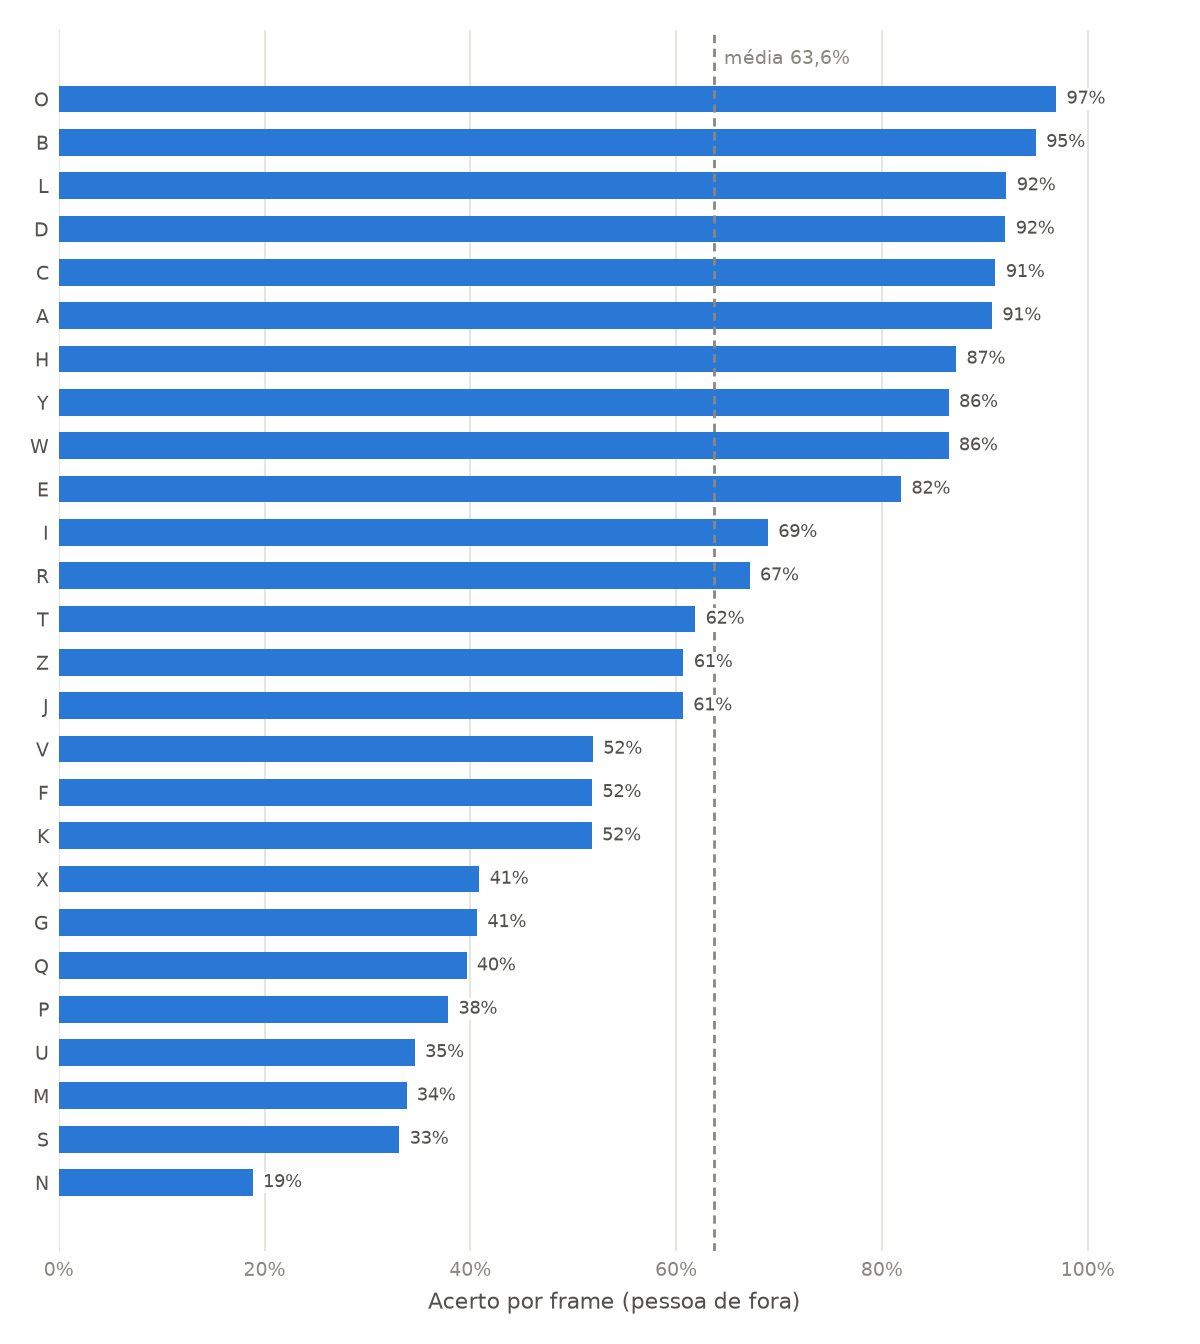
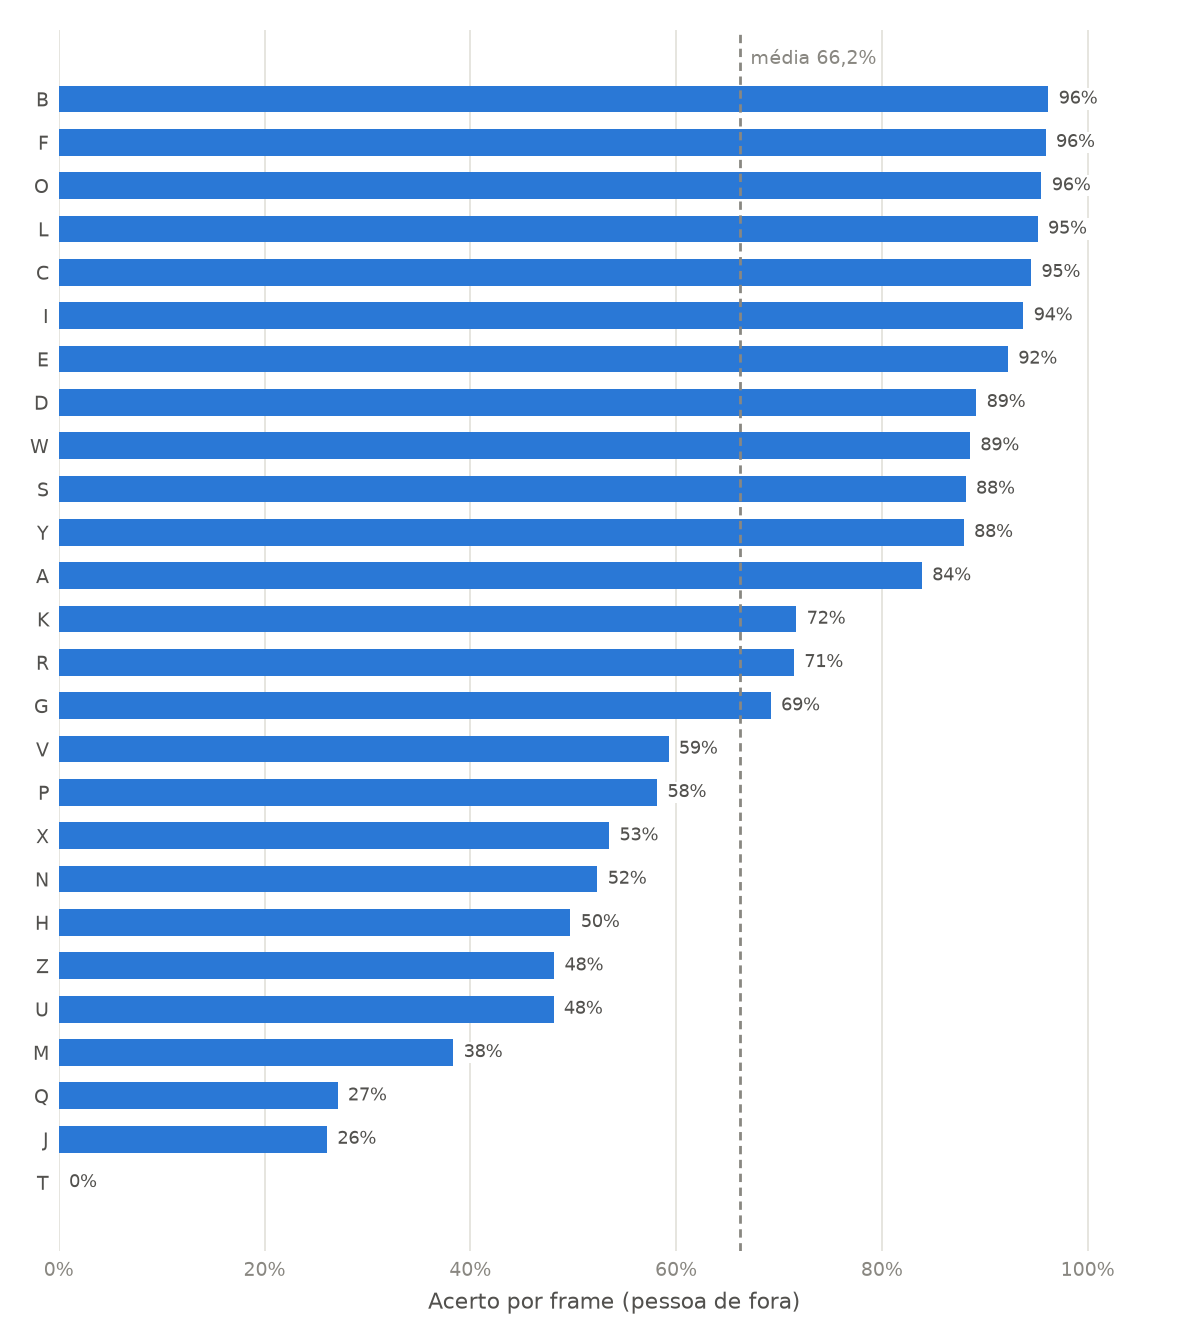
feat: troca o classificador para SVM

Changed region(s): [[0.2775, 0.0625, 0.925, 0.875], [0.0308, 0.8438, 0.2467, 0.9062], [0.5858, 0.0312, 0.7092, 0.0625]]

diff --git a/treinar_classificador.py b/treinar_classificador.py
@@ -1,5 +1,5 @@
 """
-Treina e avalia o classificador de letras do alfabeto manual (Random Forest).
+Treina e avalia o classificador de letras do alfabeto manual (SVM; Random Forest como alternativa).
 
 Uso (de dentro da pasta do projeto):
   .venv\\Scripts\\python treinar_classificador.py
@@ -12,7 +12,8 @@ Etapas:
   4. Salva em resultados/ o relatório, as tabelas (CSV) e as figuras (PNG) da avaliação.
 
 Por que não sortear frames para teste? Os 90 frames de uma tomada são quase iguais entre si.
-Sorteando, o teste vira cópia do treino e o acerto fica perto de 99%, mas é ilusório.
+Sorteando, o teste vira cópia do treino e o acerto sobe muito (99% com o Random Forest,
+84% com a SVM), mas é ilusório.
 Esse número aparece no relatório só para comparação.
 """
 
@@ -20,6 +21,7 @@ import datetime
 import glob
 import os
 import re
+import time
 
 import joblib
 import matplotlib
@@ -29,9 +31,13 @@ import numpy as np
 import pandas as pd
 import sklearn
 from matplotlib.colors import LinearSegmentedColormap
+from sklearn.calibration import CalibratedClassifierCV
 from sklearn.ensemble import RandomForestClassifier
 from sklearn.metrics import f1_score
 from sklearn.model_selection import train_test_split
+from sklearn.pipeline import Pipeline, make_pipeline
+from sklearn.preprocessing import StandardScaler
+from sklearn.svm import SVC
 from sklearn.utils.class_weight import compute_sample_weight
 
 import caracteristicas_mao
@@ -53,7 +59,12 @@ DATASETS = {
 # mesma forma de mão), então o padrão é treinar só as letras.
 CLASSES = "letras"
 
-N_ARVORES = 300
+# Modelo do sistema: "svm" (adotado depois de comparar_modelos.py) ou "random_forest"
+MODELO = "svm"
+# SVM com kernel RBF: mediana dos valores escolhidos nas 3 rodadas de comparar_modelos.py
+SVM_C = 0.3
+SVM_GAMMA = 0.003
+N_ARVORES = 300     # Random Forest
 SEMENTE = 42
 PASTA_MODELOS = os.path.join(SCRIPT_DIR, "modelos")
 PASTA_RESULTADOS = os.path.join(SCRIPT_DIR, "resultados")
@@ -148,13 +159,44 @@ def preparar(dados):
     return X, y
 
 
+def criar_modelo():
+    if MODELO == "svm":
+        # Características padronizadas (o kernel RBF depende da escala) e probabilidades
+        # calibradas, porque o filtro usa a confiança da letra. (O SVC(probability=True)
+        # foi descontinuado no scikit-learn 1.9.)
+        return make_pipeline(StandardScaler(), CalibratedClassifierCV(
+            SVC(kernel="rbf", C=SVM_C, gamma=SVM_GAMMA), ensemble=False))
+    return RandomForestClassifier(n_estimators=N_ARVORES, n_jobs=-1, random_state=SEMENTE)
+
+
+def descricao_modelo():
+    if MODELO == "svm":
+        return f"SVM com kernel RBF (C = {num(SVM_C, 1)}, gamma = {num(SVM_GAMMA, 3)}), probabilidades calibradas"
+    return f"Random Forest com {N_ARVORES} árvores (semente {SEMENTE})"
+
+
 def treinar(X, y):
     # Pesos por amostra compensam classes com mais tomadas que outras.
     # (O class_weight="balanced" do scikit-learn 1.9.1 quebra com labels como '1', '2';
     #  por isso os pesos vão no fit.)
-    modelo = RandomForestClassifier(n_estimators=N_ARVORES, n_jobs=-1, random_state=SEMENTE)
-    modelo.fit(X, y, sample_weight=compute_sample_weight("balanced", y))
+    pesos = compute_sample_weight("balanced", y)
+    modelo = criar_modelo()
+    if isinstance(modelo, Pipeline):
+        modelo.fit(X, y, **{f"{modelo.steps[-1][0]}__sample_weight": pesos})
+    else:
+        modelo.fit(X, y, sample_weight=pesos)
     return modelo
+
+
+def latencia_por_quadro_ms(modelo, X, repeticoes=200):
+    """Tempo para classificar UM quadro com probabilidades, como no tempo real (em ms)."""
+    if hasattr(modelo, "n_jobs"):
+        modelo.n_jobs = 1
+    modelo.predict_proba(X[:1])
+    inicio = time.perf_counter()
+    for i in range(repeticoes):
+        modelo.predict_proba(X[i % len(X):i % len(X) + 1])
+    return (time.perf_counter() - inicio) / repeticoes * 1000
 
 
 # =====================================================================
@@ -295,7 +337,8 @@ def desenhar_acerto_por_classe(por_classe, media, caminho):
     plt.close(fig)
 
 
-def salvar_resultados(pasta, info_datasets, resumo, previsoes, fora_da_conta, acerto_aleatorio, caminho_modelo):
+def salvar_resultados(pasta, info_datasets, resumo, previsoes, fora_da_conta, acerto_aleatorio, caminho_modelo,
+                      ms_por_quadro):
     """Grava em 'pasta' as tabelas CSV, as figuras PNG e o relatorio.md. Retorna os caminhos."""
     os.makedirs(pasta, exist_ok=True)
     caminhos = {nome: os.path.join(pasta, nome) for nome in (
@@ -317,8 +360,7 @@ def salvar_resultados(pasta, info_datasets, resumo, previsoes, fora_da_conta, ac
         "# Resultados do classificador de letras",
         "",
         f"Gerado por `treinar_classificador.py` em {datetime.datetime.now():%d/%m/%Y %H:%M}. "
-        f"Random Forest com {N_ARVORES} árvores (semente {SEMENTE}), scikit-learn {sklearn.__version__}, "
-        f"classes: {CLASSES} ({len(por_classe)}).",
+        f"Modelo: {descricao_modelo()}; scikit-learn {sklearn.__version__}; classes: {CLASSES} ({len(por_classe)}).",
         "",
         "## Dados",
         "",
@@ -362,7 +404,8 @@ def salvar_resultados(pasta, info_datasets, resumo, previsoes, fora_da_conta, ac
         "## Modelo final",
         "",
         f"Treinado com todos os {int(resumo.loc['Média', 'frames'])} frames das {len(info_datasets)} pessoas "
-        f"e salvo em `{os.path.relpath(caminho_modelo, SCRIPT_DIR).replace(os.sep, '/')}`.",
+        f"e salvo em `{os.path.relpath(caminho_modelo, SCRIPT_DIR).replace(os.sep, '/')}`. "
+        f"Tempo para classificar um quadro: {num(ms_por_quadro, 2)} ms.",
         "",
     ]
     with open(caminhos["relatorio.md"], "w", encoding="utf-8") as arquivo:
@@ -396,7 +439,8 @@ def main():
     # Modelo final: todas as pessoas no treino (mais gente = melhor para pessoas novas)
     modelo = treinar(*preparar(todos))
     os.makedirs(PASTA_MODELOS, exist_ok=True)
-    caminho_modelo = os.path.join(PASTA_MODELOS, f"random_forest_{CLASSES}.joblib")
+    caminho_modelo = os.path.join(PASTA_MODELOS, f"classificador_{CLASSES}.joblib")
+    ms_por_quadro = latencia_por_quadro_ms(modelo, preparar(todos)[0])
     joblib.dump({
         "modelo": modelo,
         "classes": [str(c) for c in modelo.classes_],
@@ -405,11 +449,14 @@ def main():
         "datasets": {nome: len(d) for nome, d in datasets.items()},
         "avaliacao_pessoa_de_fora": resumo.to_dict(orient="index"),
         "versao_sklearn": sklearn.__version__,
+        "tipo_modelo": MODELO,
+        "descricao": descricao_modelo(),
     }, caminho_modelo)
 
     caminhos = salvar_resultados(PASTA_RESULTADOS, info_datasets, resumo, previsoes, fora_da_conta,
-                                 acerto_aleatorio, caminho_modelo)
-    print(f"\n[MODELO] {len(todos)} frames de {len(datasets)} pessoas -> {os.path.relpath(caminho_modelo, SCRIPT_DIR)}")
+                                 acerto_aleatorio, caminho_modelo, ms_por_quadro)
+    print(f"\n[MODELO] {descricao_modelo()} | {num(ms_por_quadro, 2)} ms por quadro")
+    print(f"[MODELO] {len(todos)} frames de {len(datasets)} pessoas -> {os.path.relpath(caminho_modelo, SCRIPT_DIR)}")
     print(f"[RESULTADOS] relatório, tabelas e figuras em {os.path.relpath(PASTA_RESULTADOS, SCRIPT_DIR)}"
           f"{os.sep} ({len(caminhos)} arquivos)")
 

diff --git a/classificador.py b/classificador.py
@@ -11,7 +11,7 @@ Este processo:
 1. recebe do emissor a janela deslizante de frames (``tcp://127.0.0.1:5555``, PULL);
 2. descarta janelas atrasadas e frames já classificados (as janelas se sobrepõem);
 3. extrai as 35 características invariantes de cada frame novo com mão
-   (``caracteristicas_mao.extrair``) e calcula ``predict_proba`` do Random Forest;
+   (``caracteristicas_mao.extrair``) e calcula ``predict_proba`` do modelo treinado (SVM);
 4. envia ao filtro (``tcp://127.0.0.1:5556``, PUSH) um dicionário JSON de
    probabilidades por classe, em porcentagem, com ``"-"`` como classe blank::
 
@@ -82,7 +82,7 @@ import caracteristicas_mao
 # CONFIGURAÇÕES
 # =====================================================================
 SCRIPT_DIR: Final[str] = os.path.dirname(os.path.abspath(__file__))
-CAMINHO_MODELO_PADRAO: Final[str] = os.path.join(SCRIPT_DIR, "modelos", "random_forest_letras.joblib")
+CAMINHO_MODELO_PADRAO: Final[str] = os.path.join(SCRIPT_DIR, "modelos", "classificador_letras.joblib")
 
 ENDERECO_ENTRADA_PADRAO: Final[str] = "tcp://127.0.0.1:5555"   # bind (PULL): o emissor conecta aqui
 ENDERECO_SAIDA_PADRAO: Final[str] = "tcp://127.0.0.1:5556"     # connect (PUSH): o filtro faz bind aqui
@@ -140,7 +140,7 @@ def calcular_sha256(caminho: str) -> str:
 
 
 class ModeloLibras:
-    """Encapsula o Random Forest e a extração de características de um lote de frames."""
+    """Encapsula o modelo treinado e a extração de características de um lote de frames."""
 
     def __init__(self, estimador: Any, classes: tuple[str, ...], proporcao_treino: float) -> None:
         """Cria o invólucro.
@@ -183,7 +183,7 @@ class ModeloLibras:
         if not validos.any():
             return vazio, validos
 
-        # float32 evita uma cópia: o scikit-learn converte as árvores para float32 de qualquer forma
+        # float32 evita uma cópia no Random Forest (as árvores usam float32); os outros modelos convertem sozinhos
         entrada = caracteristicas[validos].astype(np.float32, copy=False)
         probabilidades = np.asarray(self._estimador.predict_proba(entrada), dtype=np.float64)
         return probabilidades, validos
@@ -569,7 +569,7 @@ class Configuracao:
     """Parâmetros de execução.
 
     Attributes:
-        caminho_modelo: Arquivo ``.joblib`` do Random Forest.
+        caminho_modelo: Arquivo ``.joblib`` do modelo treinado.
         sha256_modelo: SHA-256 esperado do modelo (``None`` = não conferir).
         endereco_entrada: Endpoint do ``bind`` PULL (emissor).
         endereco_saida: Endpoint do ``connect`` PUSH (filtro).

diff --git a/testes/test_treinar_classificador.py b/testes/test_treinar_classificador.py
@@ -143,7 +143,7 @@ class TestResultados(unittest.TestCase):
                 "P2": {"tomadas": 1, "frames": 4, "frames_sem_mao": 2}}
         pasta = tempfile.mkdtemp()
         caminhos = t.salvar_resultados(pasta, info, resumo, previsoes, {"P1": [], "P2": []}, 0.99,
-                                       os.path.join(t.SCRIPT_DIR, "modelos", "m.joblib"))
+                                       os.path.join(t.SCRIPT_DIR, "modelos", "m.joblib"), 1.25)
         for caminho in caminhos.values():
             self.assertTrue(os.path.getsize(caminho) > 0, caminho)
         with open(caminhos["relatorio.md"], encoding="utf-8") as arquivo:
@@ -151,6 +151,7 @@ class TestResultados(unittest.TestCase):
         self.assertIn("| **Média** |", relatorio)
         self.assertIn("99,0%", relatorio)
         self.assertIn("modelos/m.joblib", relatorio)
+        self.assertIn("1,25 ms", relatorio)
         matriz = pd.read_csv(caminhos["matriz_confusao.csv"], index_col=0)
         np.testing.assert_allclose(matriz.sum(axis=1), 1.0)   # cada linha soma 100%
 

diff --git a/resultados/relatorio.md b/resultados/relatorio.md
@@ -1,6 +1,6 @@
 # Resultados do classificador de letras
 
-Gerado por `treinar_classificador.py` em 30/10/2026 16:44. Random Forest com 300 árvores (semente 42), scikit-learn 1.9.1, classes: letras (26).
+Gerado por `treinar_classificador.py` em 30/10/2026 18:06. Modelo: SVM com kernel RBF (C = 0,3, gamma = 0,003), probabilidades calibradas; scikit-learn 1.9.1; classes: letras (26).
 
 ## Dados
 
@@ -16,14 +16,14 @@ Para cada pessoa, o modelo é treinado com as outras e testado nela. O acerto po
 
 | Pessoa testada | Frames | Tomadas | Acerto por frame | F1 macro | Acerto por tomada |
 |---|---:|---:|---:|---:|---:|
-| Gabriel | 6716 | 75 | 63,1% | 0,58 | 70,7% |
-| Fernando | 3315 | 52 | 64,8% | 0,59 | 65,4% |
-| Giovanni | 4497 | 51 | 63,1% | 0,62 | 78,4% |
-| **Média** | 14528 | 178 | 63,6% | 0,60 | 71,5% |
+| Gabriel | 6716 | 75 | 66,1% | 0,64 | 72,0% |
+| Fernando | 3315 | 52 | 69,6% | 0,66 | 78,8% |
+| Giovanni | 4497 | 51 | 63,0% | 0,60 | 76,5% |
+| **Média** | 14528 | 178 | 66,2% | 0,63 | 75,8% |
 
 ## Acerto por letra
 
-Da pior para a melhor (todas as pessoas testadas juntas): N 19%, S 33%, M 34%, U 35%, P 38%, Q 40%, G 41%, X 41%, K 52%, F 52%, V 52%, J 61%, Z 61%, T 62%, R 67%, I 69%, E 82%, W 86%, Y 86%, H 87%, A 91%, C 91%, D 92%, L 92%, B 95%, O 97%.
+Da pior para a melhor (todas as pessoas testadas juntas): T 0%, J 26%, Q 27%, M 38%, U 48%, Z 48%, H 50%, N 52%, X 53%, P 58%, V 59%, G 69%, R 71%, K 72%, A 84%, Y 88%, S 88%, W 89%, D 89%, E 92%, I 94%, C 95%, L 95%, O 96%, F 96%, B 96%.
 
 Figuras: `acerto_por_classe.png` e `matriz_confusao.png`.
 
@@ -31,21 +31,21 @@ Figuras: `acerto_por_classe.png` e `matriz_confusao.png`.
 
 | Letra real | Prevista como | Frames |
 |---|---|---:|
-| K | H | 289 |
-| J | I | 276 |
-| U | R | 255 |
-| M | W | 249 |
-| G | Z | 222 |
-| T | F | 218 |
-| F | T | 214 |
-| S | I | 191 |
-| Q | Z | 178 |
-| V | H | 147 |
+| T | F | 583 |
+| J | I | 409 |
+| H | K | 245 |
+| Q | Z | 216 |
+| P | K | 194 |
+| U | R | 179 |
+| V | R | 171 |
+| M | N | 160 |
+| N | M | 151 |
+| Z | G | 130 |
 
 ## Comparação: frames sorteados (ilusório)
 
-Sorteando 25% dos frames para teste, o acerto é 98,9%. O número é ilusório: frames da mesma tomada caem no treino e no teste. Não usar como resultado.
+Sorteando 25% dos frames para teste, o acerto é 84,0%. O número é ilusório: frames da mesma tomada caem no treino e no teste. Não usar como resultado.
 
 ## Modelo final
 
-Treinado com todos os 14528 frames das 3 pessoas e salvo em `modelos/random_forest_letras.joblib`.
+Treinado com todos os 14528 frames das 3 pessoas e salvo em `modelos/classificador_letras.joblib`. Tempo para classificar um quadro: 7,06 ms.

diff --git a/README.md b/README.md
@@ -1,6 +1,6 @@
 # TCC
 
-Reconhecimento do alfabeto manual de Libras com landmarks da mão (MediaPipe) e Random Forest, em tempo real.
+Reconhecimento do alfabeto manual de Libras com landmarks da mão (MediaPipe) e SVM, em tempo real.
 
 ```
 emissor_janela_zmq_sem_tela ──5555──> classificador ──5556──> filtro ──5557──> exibidor_texto
@@ -10,7 +10,7 @@ emissor_janela_zmq_sem_tela ──5555──> classificador ──5556──> fi
 | Arquivo | O que faz |
 |---|---|
 | `emissor_janela_zmq_sem_tela.py` | Abre a câmera, extrai os 21 landmarks da mão e envia a janela deslizante de frames ao classificador e a imagem ao exibidor |
-| `classificador.py` | Calcula as características de cada frame novo e as probabilidades de cada letra (Random Forest) |
+| `classificador.py` | Calcula as características de cada frame novo e as probabilidades de cada letra (SVM) |
 | `filtro.py` | Escolhe a letra mais provável e só a repassa se a confiança passar do limiar |
 | `exibidor_texto.py` | Mostra a imagem da câmera e a letra reconhecida |
 | `caracteristicas_mao.py` | As 35 características da mão (ângulos, distâncias, orientação), usadas no treino e no classificador |
@@ -43,7 +43,7 @@ Clique na janela da câmera. Aperte uma letra para escolher o que será gravado,
 
 Cada pasta em `DATASETS` (no topo do arquivo) é o dataset de uma pessoa. O script treina com todas menos uma e testa na que ficou de fora, para cada pessoa. **Esse acerto "pessoa de fora" é o número do TCC**: mede o modelo com alguém que ele nunca viu. No fim, salva:
 
-- `modelos/random_forest_letras.joblib`: o modelo treinado com todas as pessoas (usado pelo `classificador.py`);
+- `modelos/classificador_letras.joblib`: o modelo treinado com todas as pessoas (SVM; usado pelo `classificador.py`);
 - `resultados/`: `relatorio.md`, tabelas CSV (acerto por pessoa, por letra, matriz de confusão) e as figuras `matriz_confusao.png` e `acerto_por_classe.png`.
 
 Experimentos (mesma avaliação "pessoa de fora"; levam alguns minutos):
